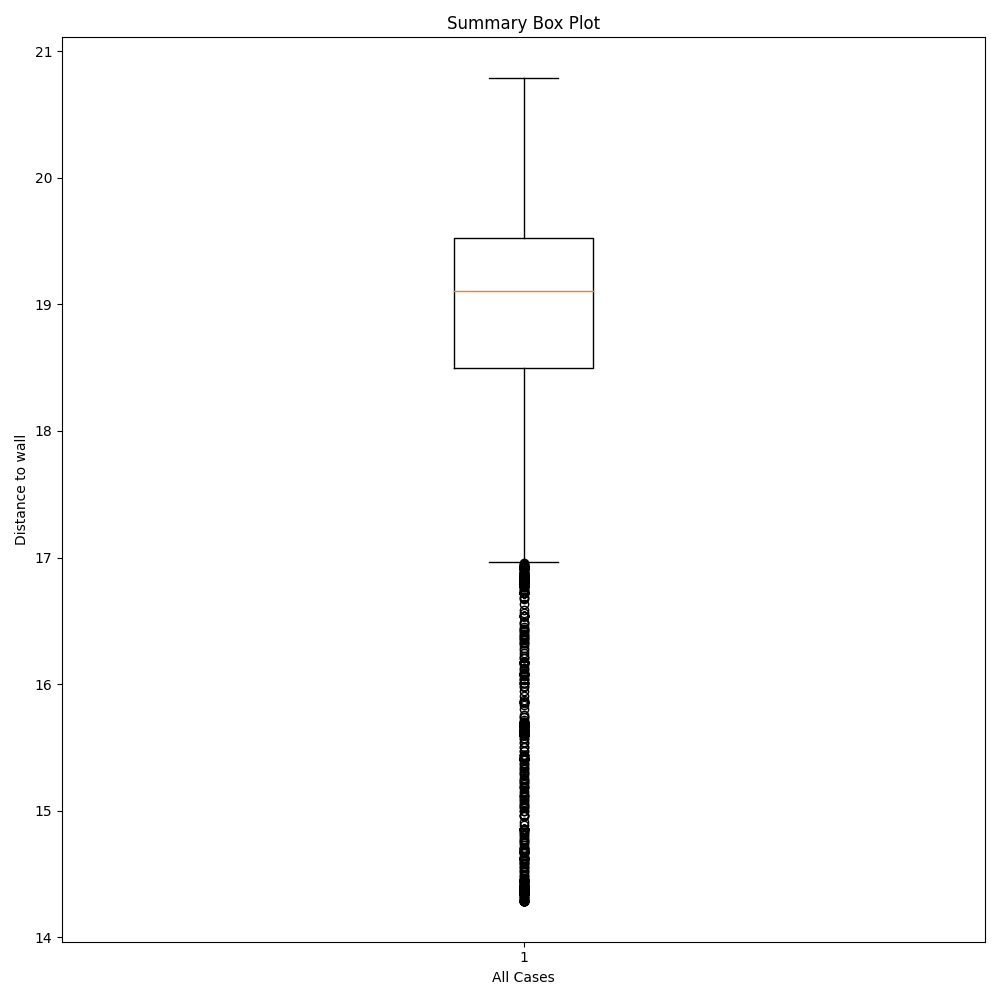
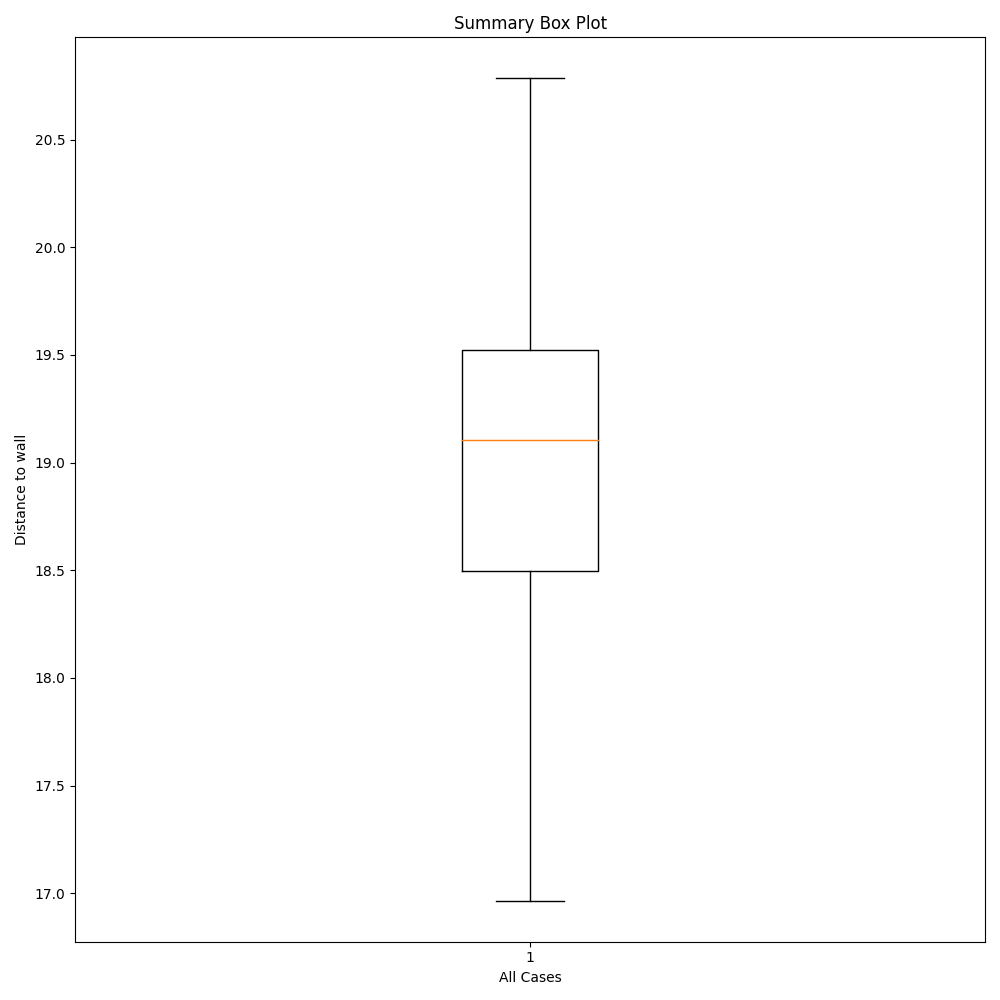
Remove outliers from box plot

diff --git a/docs/experiment-plots/straight-line-plot.py b/docs/experiment-plots/straight-line-plot.py
@@ -17,7 +17,7 @@ def individual_summary_boxplot(summary_data_list, output_destination_folder, fig
 
 def summary_boxplot(all_min_distances, output_destination_folder, fig_width=10, fig_height=6):
     plt.figure(figsize=(fig_width, fig_height))
-    plt.boxplot(all_min_distances)
+    plt.boxplot(all_min_distances, showfliers=False)
     plt.xlabel('All Cases')
     plt.ylabel('Distance to wall')
     plt.title('Summary Box Plot')
